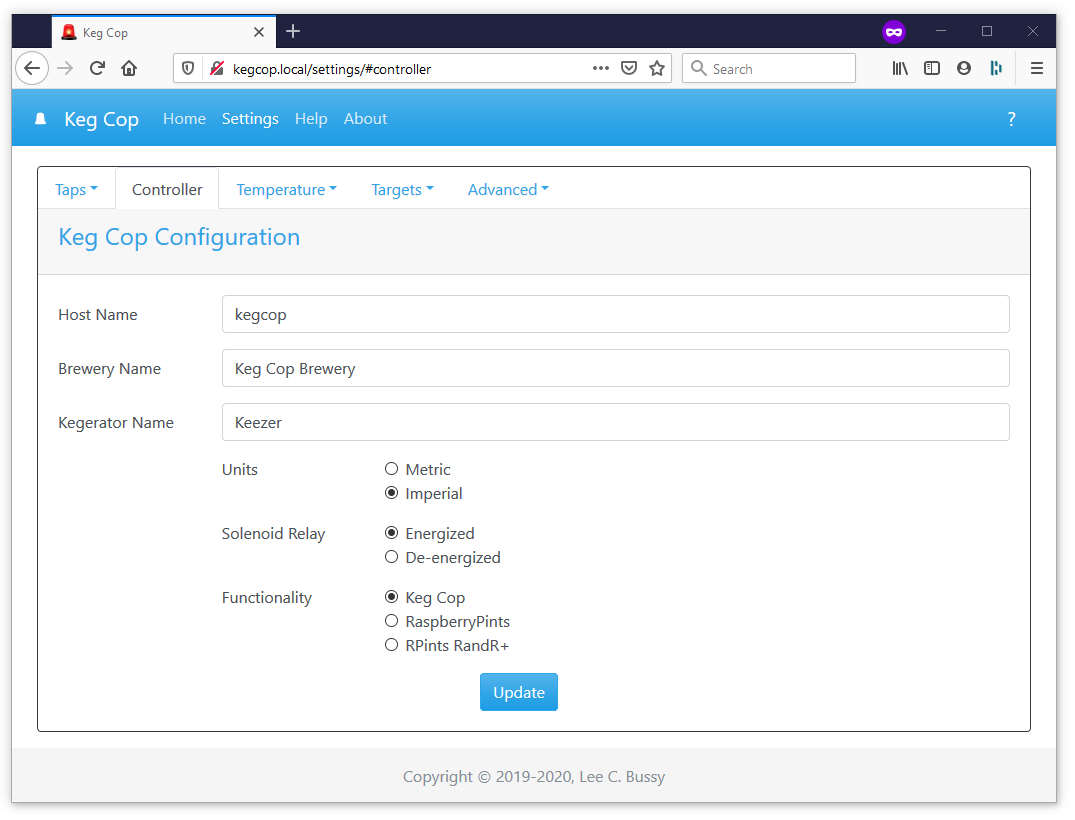
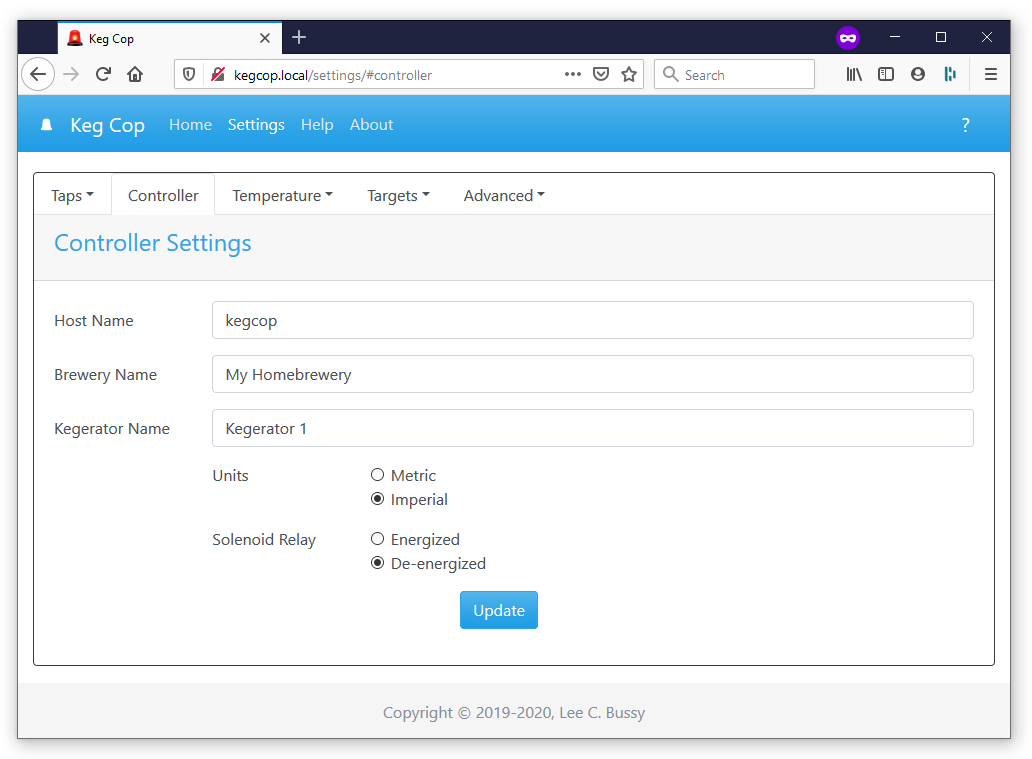
Remove RPints from docs

Changed region(s): [[0.0, 0.0, 0.9922, 1.0], [0.186, 0.697, 0.3101, 0.7576]]

diff --git a/docs/api/index.rst b/docs/api/index.rst
@@ -9,7 +9,6 @@ Keg Cop uses a combination of API types:
 - `JSON Retrieval`_
 - `Settings Handlers (POST)`_
 - `Target URL Report`_
-- `RaspberryPints Reports`_
 - `Keg Screen Reports`_
 
 Action Pages
@@ -54,8 +53,6 @@ These pages return proper JSON reports for configuration and status items:
             "breweryname": "Silver Fox Brewery",
             "kegeratorname": "Keezer",
             "imperial": true,
-            "rpintscompat": false,
-            "randr": false,
             "tapsolenoid": true
         },
         "temps": {
@@ -339,7 +336,6 @@ Entries POSTed to this endpoint will configure many elements of the controller's
 - ``kegeratorname:{kegeratorname}``, where ``{kegeratorname}`` is the name of the kegerator served by the controller used on various web pages
 - ``imperial:{bool}``, where ``{bool}`` is true or false, respectively, for imperial or metric units of measure. Note that selection of the opposite causes a conversion of the various data points, and may cause accumulation of error if repeatedly toggled
 - ``tapsolenoid:{energized|deenergized}``, where ``{energized|deenergized}`` determines whether the solenoid control is on or off respectively
-- ``rpintscompat:{kegcop|rpintscompat|randr}``, where ``{kegcop|rpintscompat|randr}`` is standard Keg Cop operations when set to *kegcop*. Selecting *rpintscompat* or *randr* will toggle RaspberryPints-compatible serial reporting in either original or RandR+ variants
 
 /settings/sensorcontrol/
 ==========================
@@ -512,58 +508,6 @@ The Target URL Report provides a holistic picture of the system to a custom/thir
             }
         ]
     }
-
-RaspberryPints Reports
-************************
-
-When configured as a RaspberryPints-compatible controller, Keg Screen disables all serial debug printing and provides reports via the serial connection.  There are two RaspberryPints-compatible reports:
-
-- Pour Report
-- Kick Report
-
-Pour Report
-============
-
-Keg Cop will issue the Pour Report after a pour when the controller detects that the pour has stopped.  The report follows this format:
-
-``P;1;4;3200``
-
-A semicolon (``;``) delimits the fields, and the fields are as follows:
-
-- ``P`` - Report Type: The "P" in the first field designates this as a "Pour Report."
-- ``1`` - Address: The "1" here is the tap number for the pour.
-- ``4`` - Pin Number: The "4" here is the controller pin number for the pour.
-- ``3200`` - Pulse Count: This is the number of pulses detected during the pour.
-
-For RandR+-compatible systems, the Pour Report is slightly different.  For example:
-
-``P;2147483640;0;3200``, where:
-
-- ``P`` - Report Type: The "P" in the first field designates this as a "Pour Report"
-- ``2147483640`` - RFID User: The "2147483640" indicates an RFID-identified user.  This field is not supported in Keg Cop and will always report "0"
-- ``0`` - Pin Number: The "0" here is the tap number for the pour
-- ``3200`` - Pulse Count: This is the number of pulses detected during the pour
-
-Kick Report
-============
-
-Keg Cop will issue the Kick Report after the controller detects the tap blowing foam.  The report follows this format:
-
-``K;2;0``
-
-A semicolon (``;``) delimits the fields, and the fields are as follows:
-
-- ``K`` - Report Type: The "K" in the first field designates this as a "Kick Report"
-- ``2`` - Address: The "2" here is the tap number which has kicked
-- ``0`` - Pin Number: The "0" here is the controller pin number for the pour
-
-For RandR+-compatible systems, the Kick Report is slightly different.  For example:
-
-``K;2147483640;6``
-
-- ``K`` - Report Type: The "P" in the first field designates this as a "Pour Report"
-- ``2147483640`` - RFID User: The "2147483640" identifies an RFID-identified user.  This is not supported in Keg Cop and will always report "0"
-- ``6`` - Pin Number: The "6" here is the tap number for the pour
 
 Keg Screen Reports
 *******************

diff --git a/docs/context/settings/controller/index.rst b/docs/context/settings/controller/index.rst
@@ -17,7 +17,3 @@ The Controller Settings page allows configuration of settings which control the 
    - **Metric**: Volume reports in liters and milliliters, the temperature in degrees Celcius, and you will enter the flowmeter calibration in pulses per liter.
    - **Imperial**: Volume reports in gallons and ounces, the temperature in degrees Fahrenheit, you will enter the flowmeter calibration in pulses per gallon.
 - **Solenoid Relay**: This will energize or de-energize a relay. This setting controls a solenoid or bank of solenoids to turn the beverage flow on or off. I have provided this point for convenience; I intend for an upstream system to control it.
-- **Functionality**:
-   - **Keg Cop**: The controller will operate in stand-alone mode or report to upstream systems as Keg Cop.
-   - **RaspberryPints**: The controller will disable all serial communication except for that which is compatible with the RaspberryPints 2.x systems. This setting should allow it to be a direct replacement for the Arduino or AlaMode.
-   - **RPints RandR+**: The controller will disable all serial communication except for that which is compatible with the RandR+ fork of the RaspberryPints 2.x systems. This setting should allow it to be a direct replacement for the Arduino or AlaMode.
